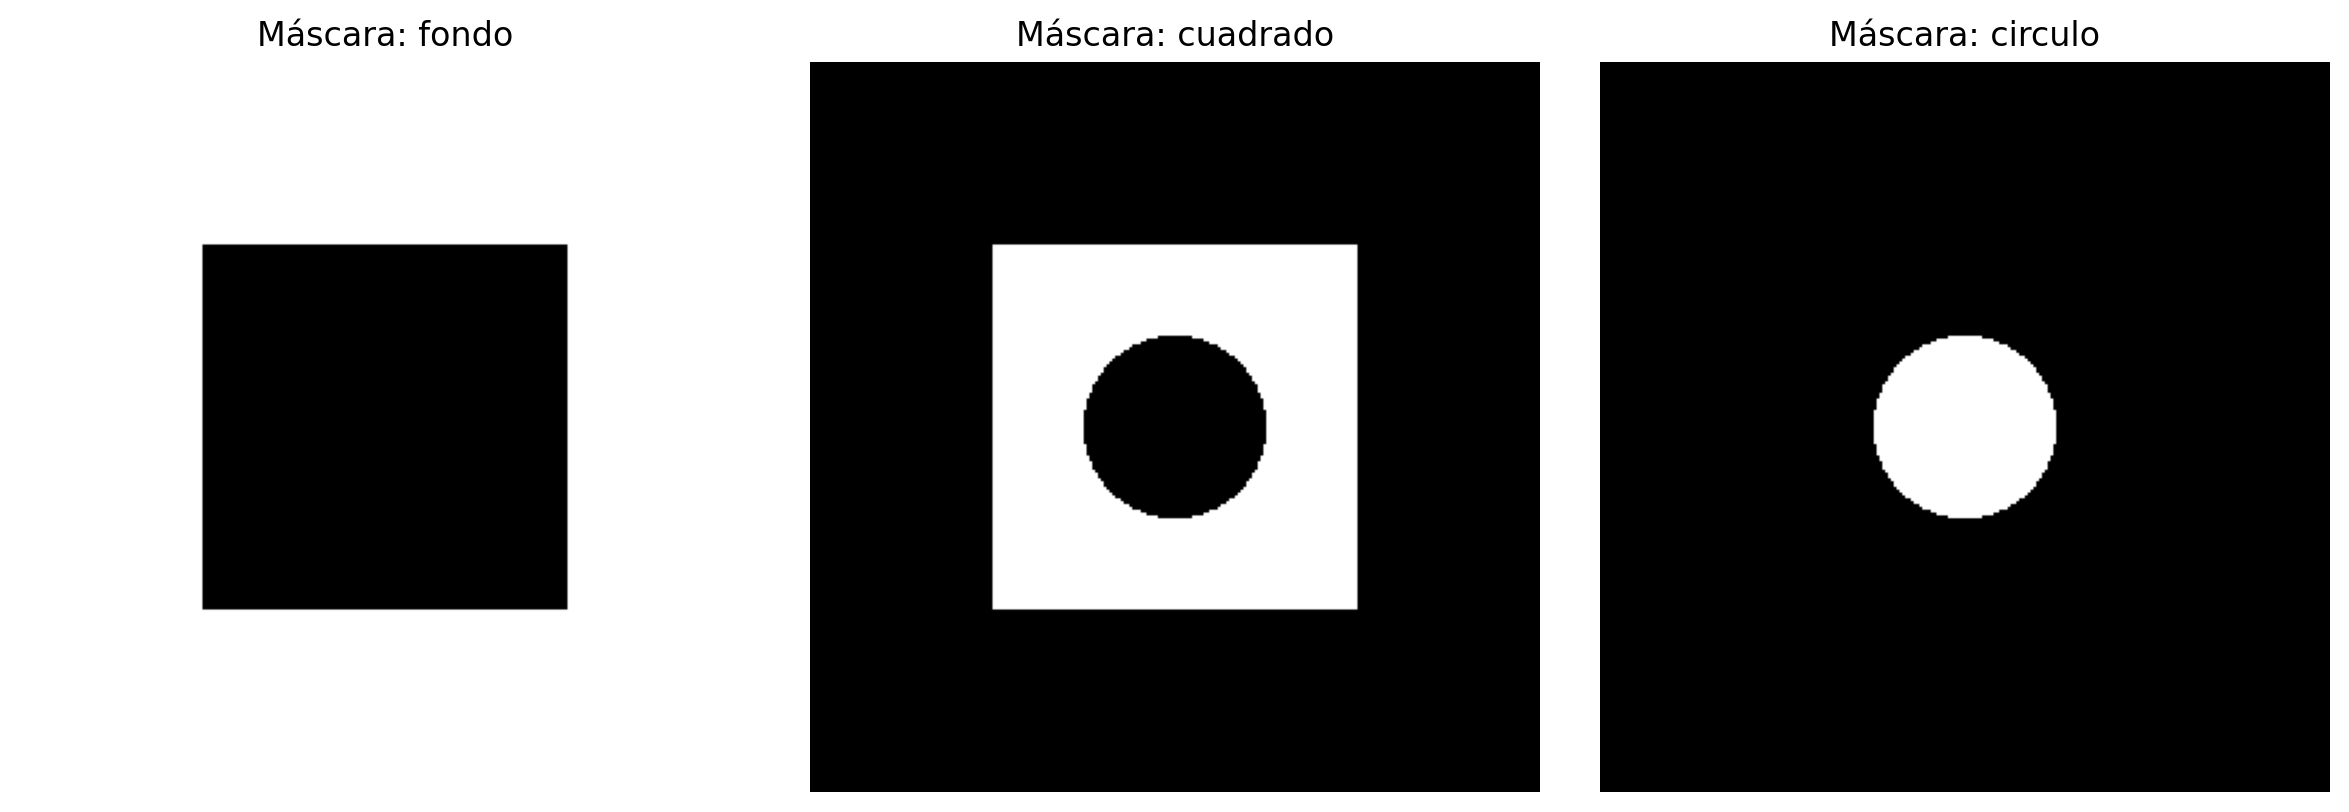
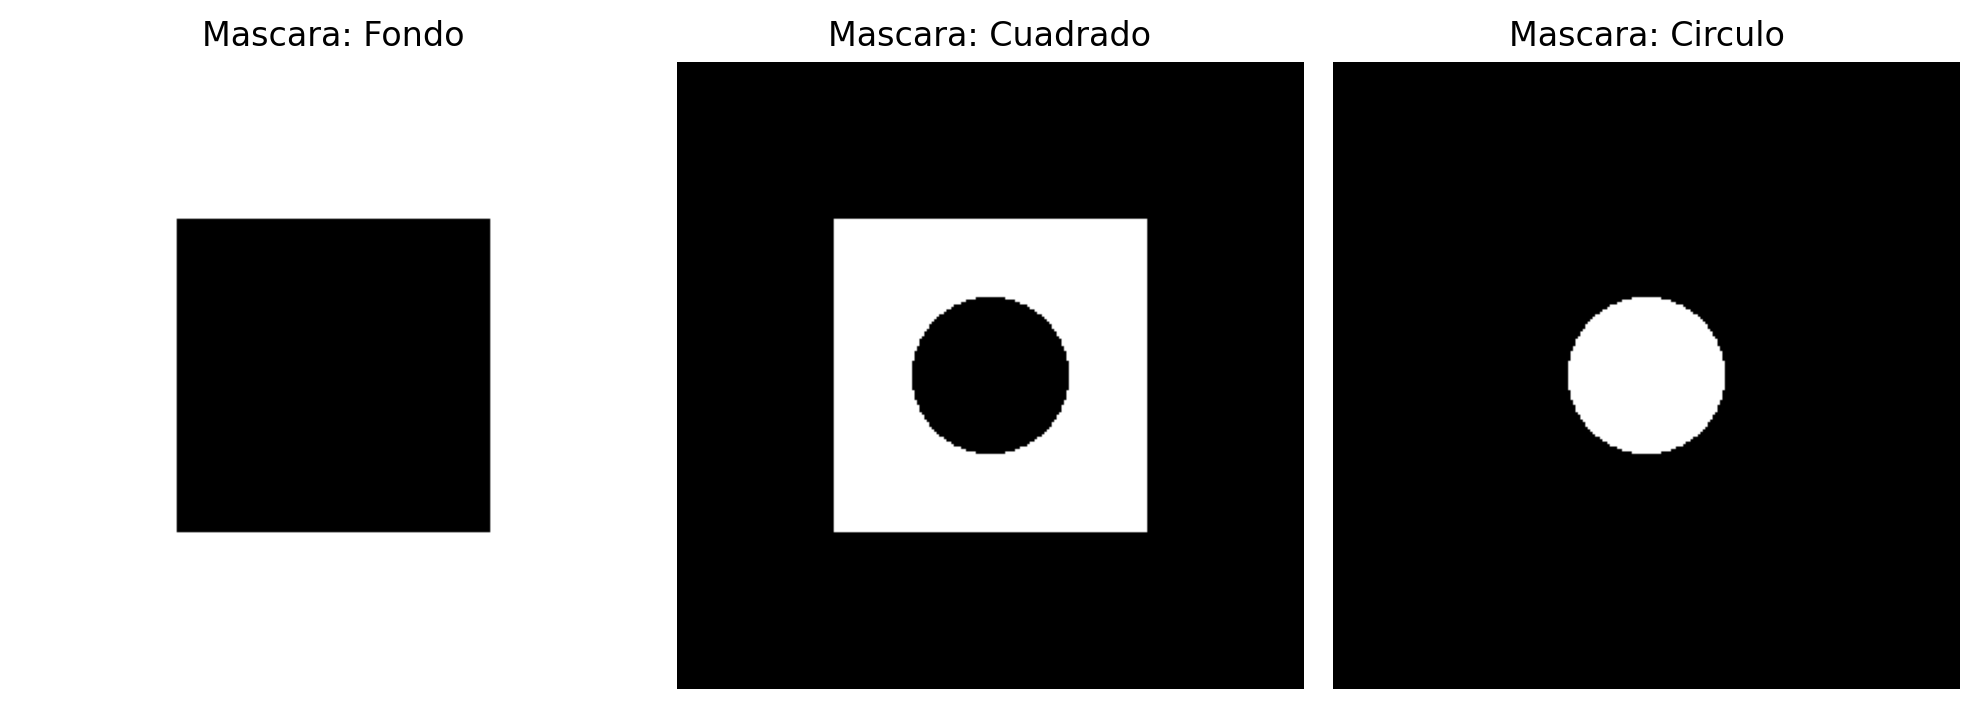
ahora si creo

diff --git a/Pregunta 1/generacion_datos.py b/Pregunta 1/generacion_datos.py
@@ -1,61 +1,82 @@
+from pathlib import Path
 import numpy as np
+import matplotlib.pyplot as plt
+
 
 # ----------- Datos solicitados ---------- #
 T_imagen    =   256
 L_cuadrado  =   128
 R_circulo   =   32
 I_fondo, I_cuadrado, I_circulo = 0.15, 0.45, 0.80
-
-N       =   40                          # N en y = Poisson(N*x)/N
-SEED    =   1234                    
-
 # ---------------------------------------- #
 
-def imagen_sola(size=T_imagen):
 
-    x = np.full((size, size), I_fondo, dtype=np.float64)
+def imagen_ideal(tam=256, i_fondo=0.15, i_cuadrado=0.45, i_circulo=0.80,
+                       l_cuadrado=128, r_circulo=32):
+
+    imagen = np.full((tam, tam), i_fondo, dtype=np.float32)
 
     # Cuadrado centrado 
-    ini = (size - L_cuadrado) // 2       #   inicio  = mitad imagen - medio lado 
-    fin = ini + L_cuadrado                #   fin     = inicio + lado
-    square = np.zeros((size, size), dtype=bool)
-    square[ini:fin, ini:fin] = True
+    ini = (tam - l_cuadrado) // 2       #   inicio  = mitad imagen - medio lado
+    fin = ini + l_cuadrado              #   fin     = inicio + lado
+    cuadrado = np.zeros((tam, tam), dtype=bool)
+    cuadrado[ini:fin, ini:fin] = True
 
     # Ya que T_imagen es par, el centro real esta entre los pixeles 127 y 128 -> (size-1)/2 = 127.5,
-    c = (size - 1) / 2
-    i, j = np.indices((size, size))
-    circle = (i - c) ** 2 + (j - c) ** 2 <= R_circulo ** 2
+    c = (tam - 1) / 2
+    i, j = np.indices((tam, tam))
+    circulo = (i - c) ** 2 + (j - c) ** 2 <= r_circulo ** 2
 
-    x[square] = I_cuadrado
-    x[circle] = I_circulo
+    imagen[cuadrado] = i_cuadrado
+    imagen[circulo] = i_circulo
 
-    masks = {
-        "fondo": ~square,
-        "cuadrado": square & ~circle,   # cuadrado excluyendo el circulo
-        "circulo": circle,
+    mascaras = {
+        'Fondo':    ~cuadrado,
+        'Cuadrado': cuadrado & ~circulo,   # cuadrado excluyendo el círculo
+        'Circulo':  circulo,
     }
-    return x, masks
 
-def añadir_ruido(x, N=N, seed=SEED):
-    rng = np.random.default_rng(seed)
-    return rng.poisson(N * x).astype(np.float64) / N
+    return imagen, mascaras
+
+def agregar_poisson(imagen, N):
+    imagen_ruidosa = np.random.poisson(imagen * N) / N
+    return imagen_ruidosa.astype(np.float32)
 
 
- 
-if __name__ == "__main__":
-    import matplotlib.pyplot as plt
-    from pathlib import Path
+def rmse(a, b, mascara=None): #obtenido de las capsulas 
+    d = (a.astype(np.float64) - b.astype(np.float64))
+    if mascara is not None:
+        d = d[mascara]
+    return float(np.sqrt(np.mean(d**2)))
 
-    # 1. Configuración inicial y generación de datos
-    N = 40  # Asegúrate de definir N si no está como variable global
-    x, masks = imagen_sola()
-    y = añadir_ruido(x)
 
-    # 2. Configuración del directorio de salida
+
+if __name__ == '__main__':
+    
+    SEED = 1234
+    np.random.seed(SEED)    # semilla fija
+
+    N = 40             
+    x, masks = imagen_ideal()
+    y = agregar_poisson(x, N)
+
+
+   # directorio de salida
     output_dir = Path(__file__).resolve().parent / "figures_p1"
     output_dir.mkdir(exist_ok=True)
 
-    # 3. Gráfico 1: Imagen Ideal vs Ruidosa
+    
+    # Estadísticas por región
+    valores = {'Fondo': 0.15, 'Cuadrado': 0.45, 'Circulo': 0.80}
+    print(f'N={N}, semilla={SEED}')
+    print(f"{'Región':10s} {'#píxeles':>9s} {'x':>5s} {'media(y)':>9s} {'RMSE':>8s} {'sqrt(x/N)':>10s}")
+    for nombre, m in masks.items():
+        print(f'{nombre:10s} {m.sum():9d} {valores[nombre]:5.2f} {y[m].mean():9.4f} '
+              f'{rmse(y, x, m):8.4f} {np.sqrt(valores[nombre]/N):10.4f}')
+    print(f'RMSE global (sin filtrar): {rmse(y, x):.4f}')
+
+
+    # Gráfico 1: Imagen Ideal vs Ruidosa
     fig, ax = plt.subplots(1, 2, figsize=(12, 5))
 
     ax[0].imshow(x, cmap="gray", vmin=0, vmax=1)
@@ -68,7 +89,7 @@ if __name__ == "__main__":
 
     fig.tight_layout()
 
-    # 4. Gráfico 2: Máscaras de las regiones
+    # Gráfico 2: Máscaras de las regiones
     fig_masks, ax_masks = plt.subplots(1, 3, figsize=(12, 4))
     nombres_mascaras = ["fondo", "cuadrado", "circulo"]
 
@@ -84,3 +105,7 @@ if __name__ == "__main__":
     fig_masks.savefig(output_dir / "1.1_mascaras.png", dpi=200, bbox_inches="tight")
     
     plt.show()
+
+
+
+
